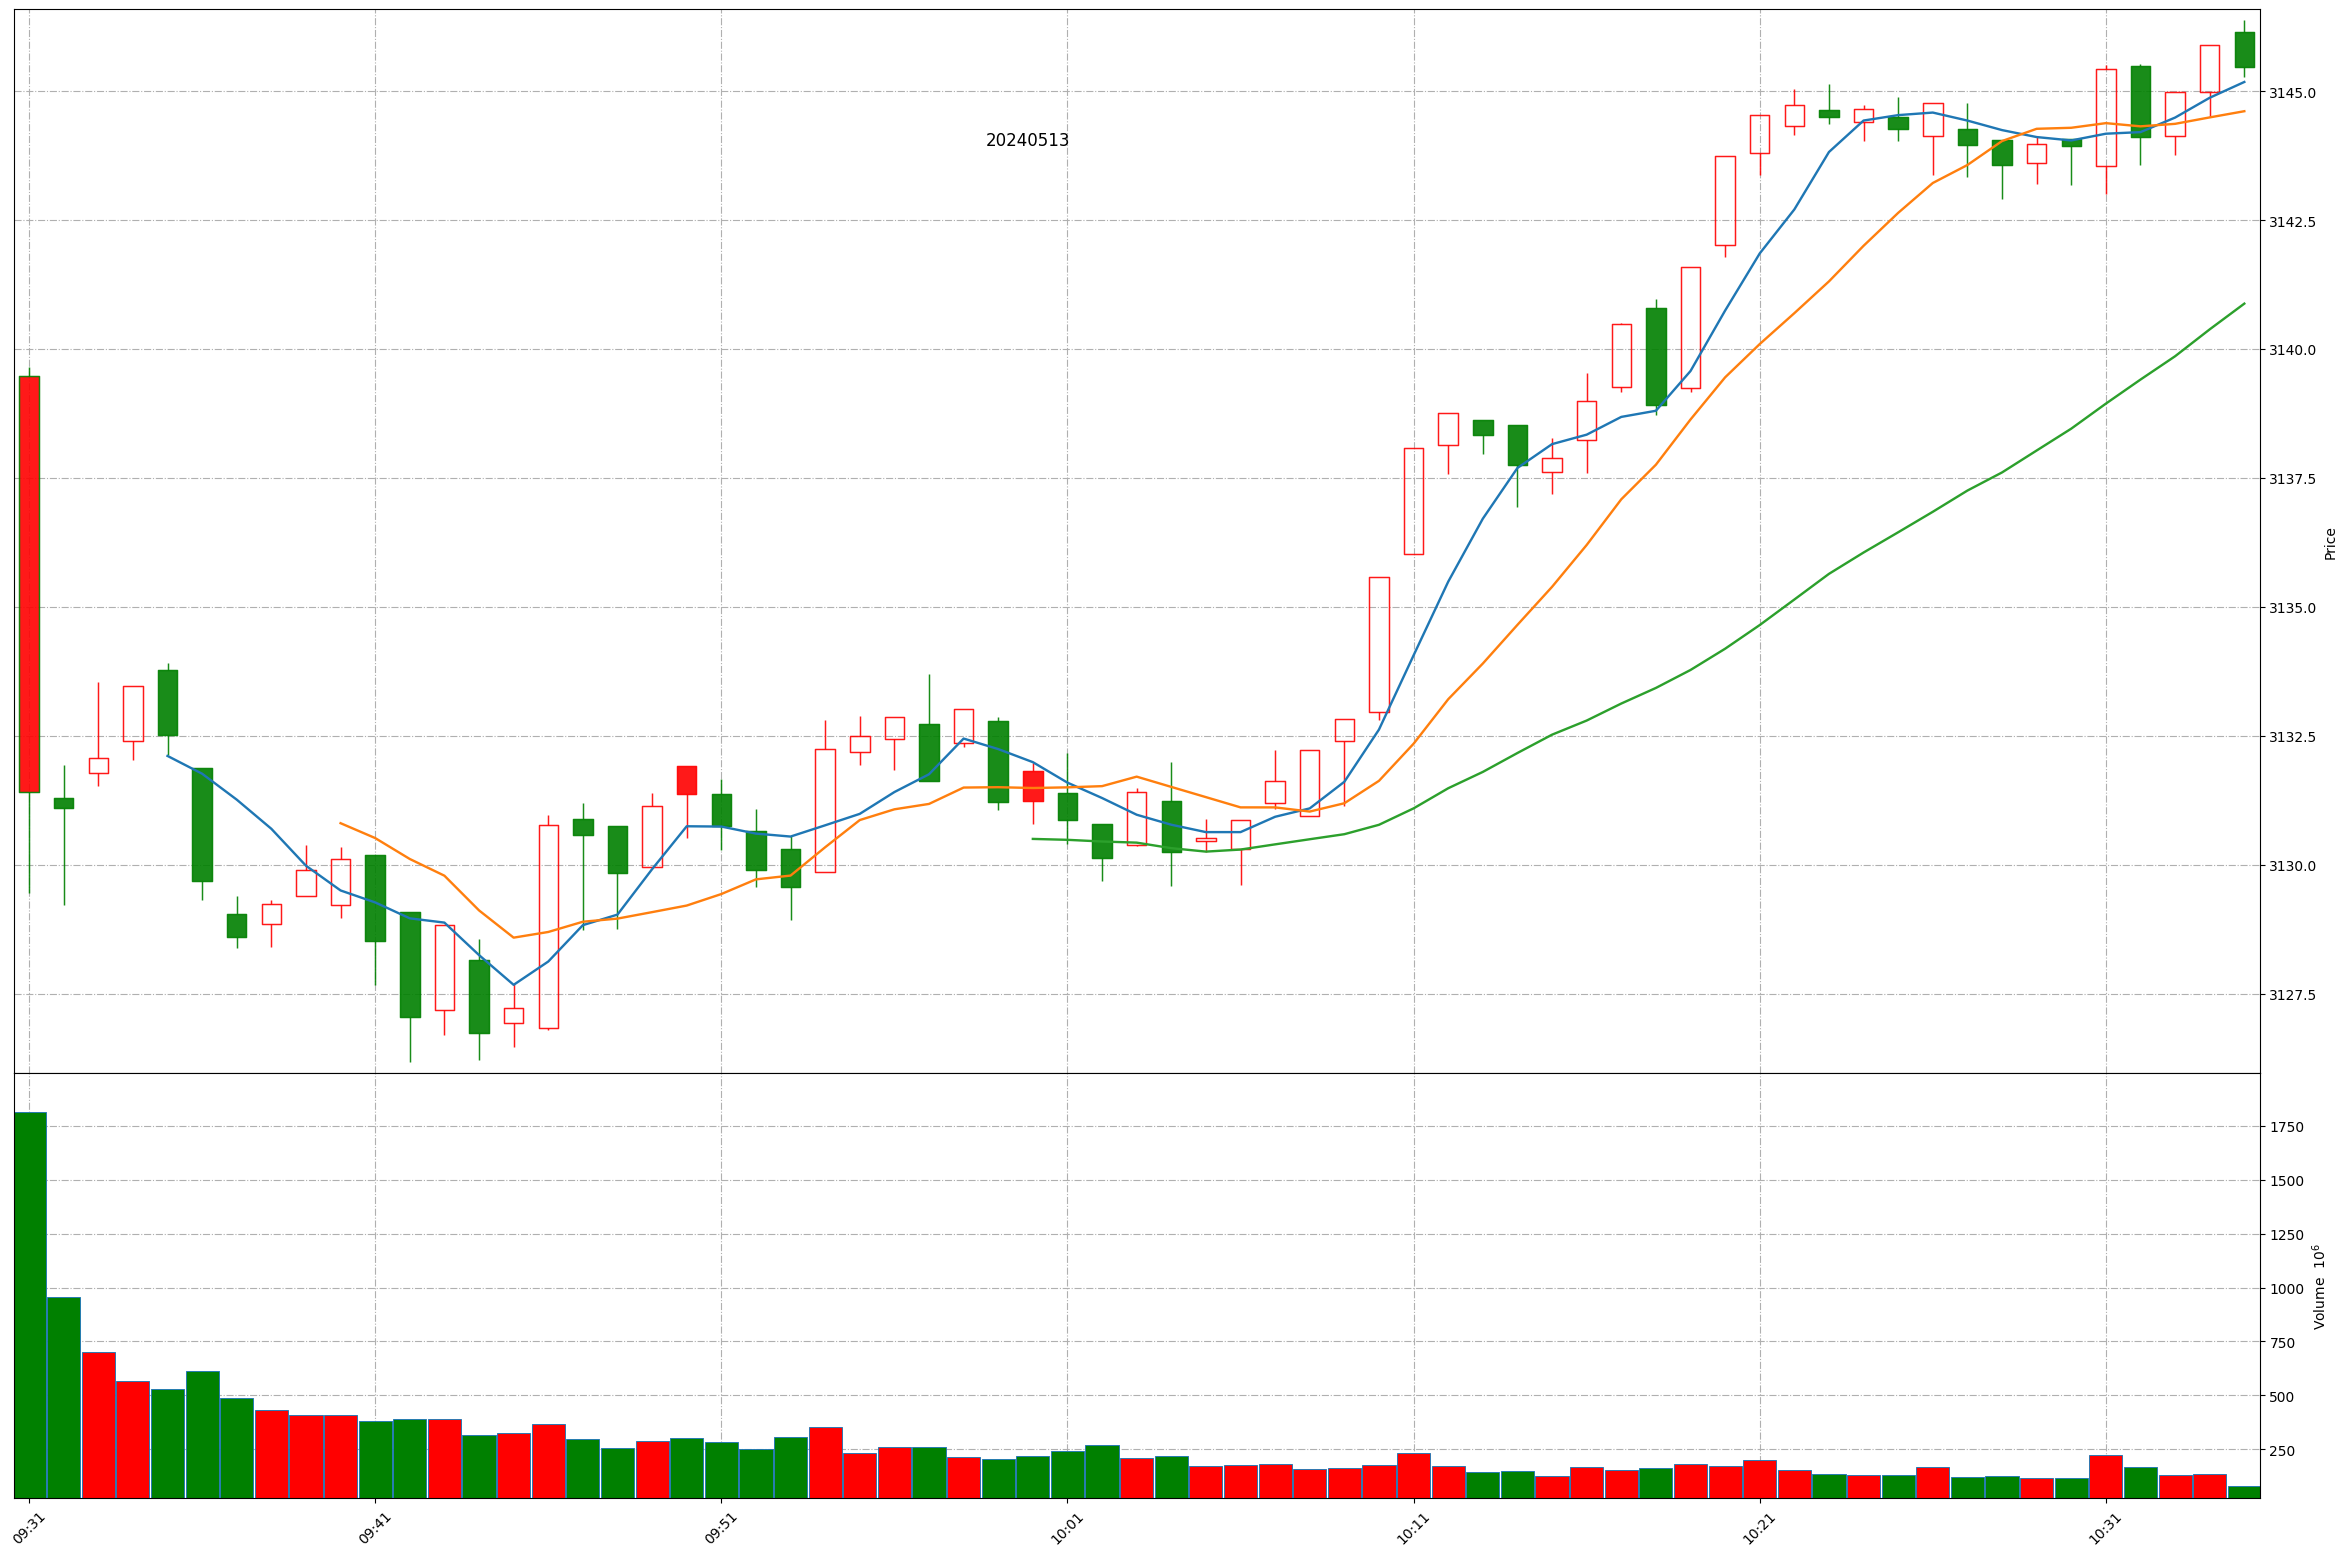
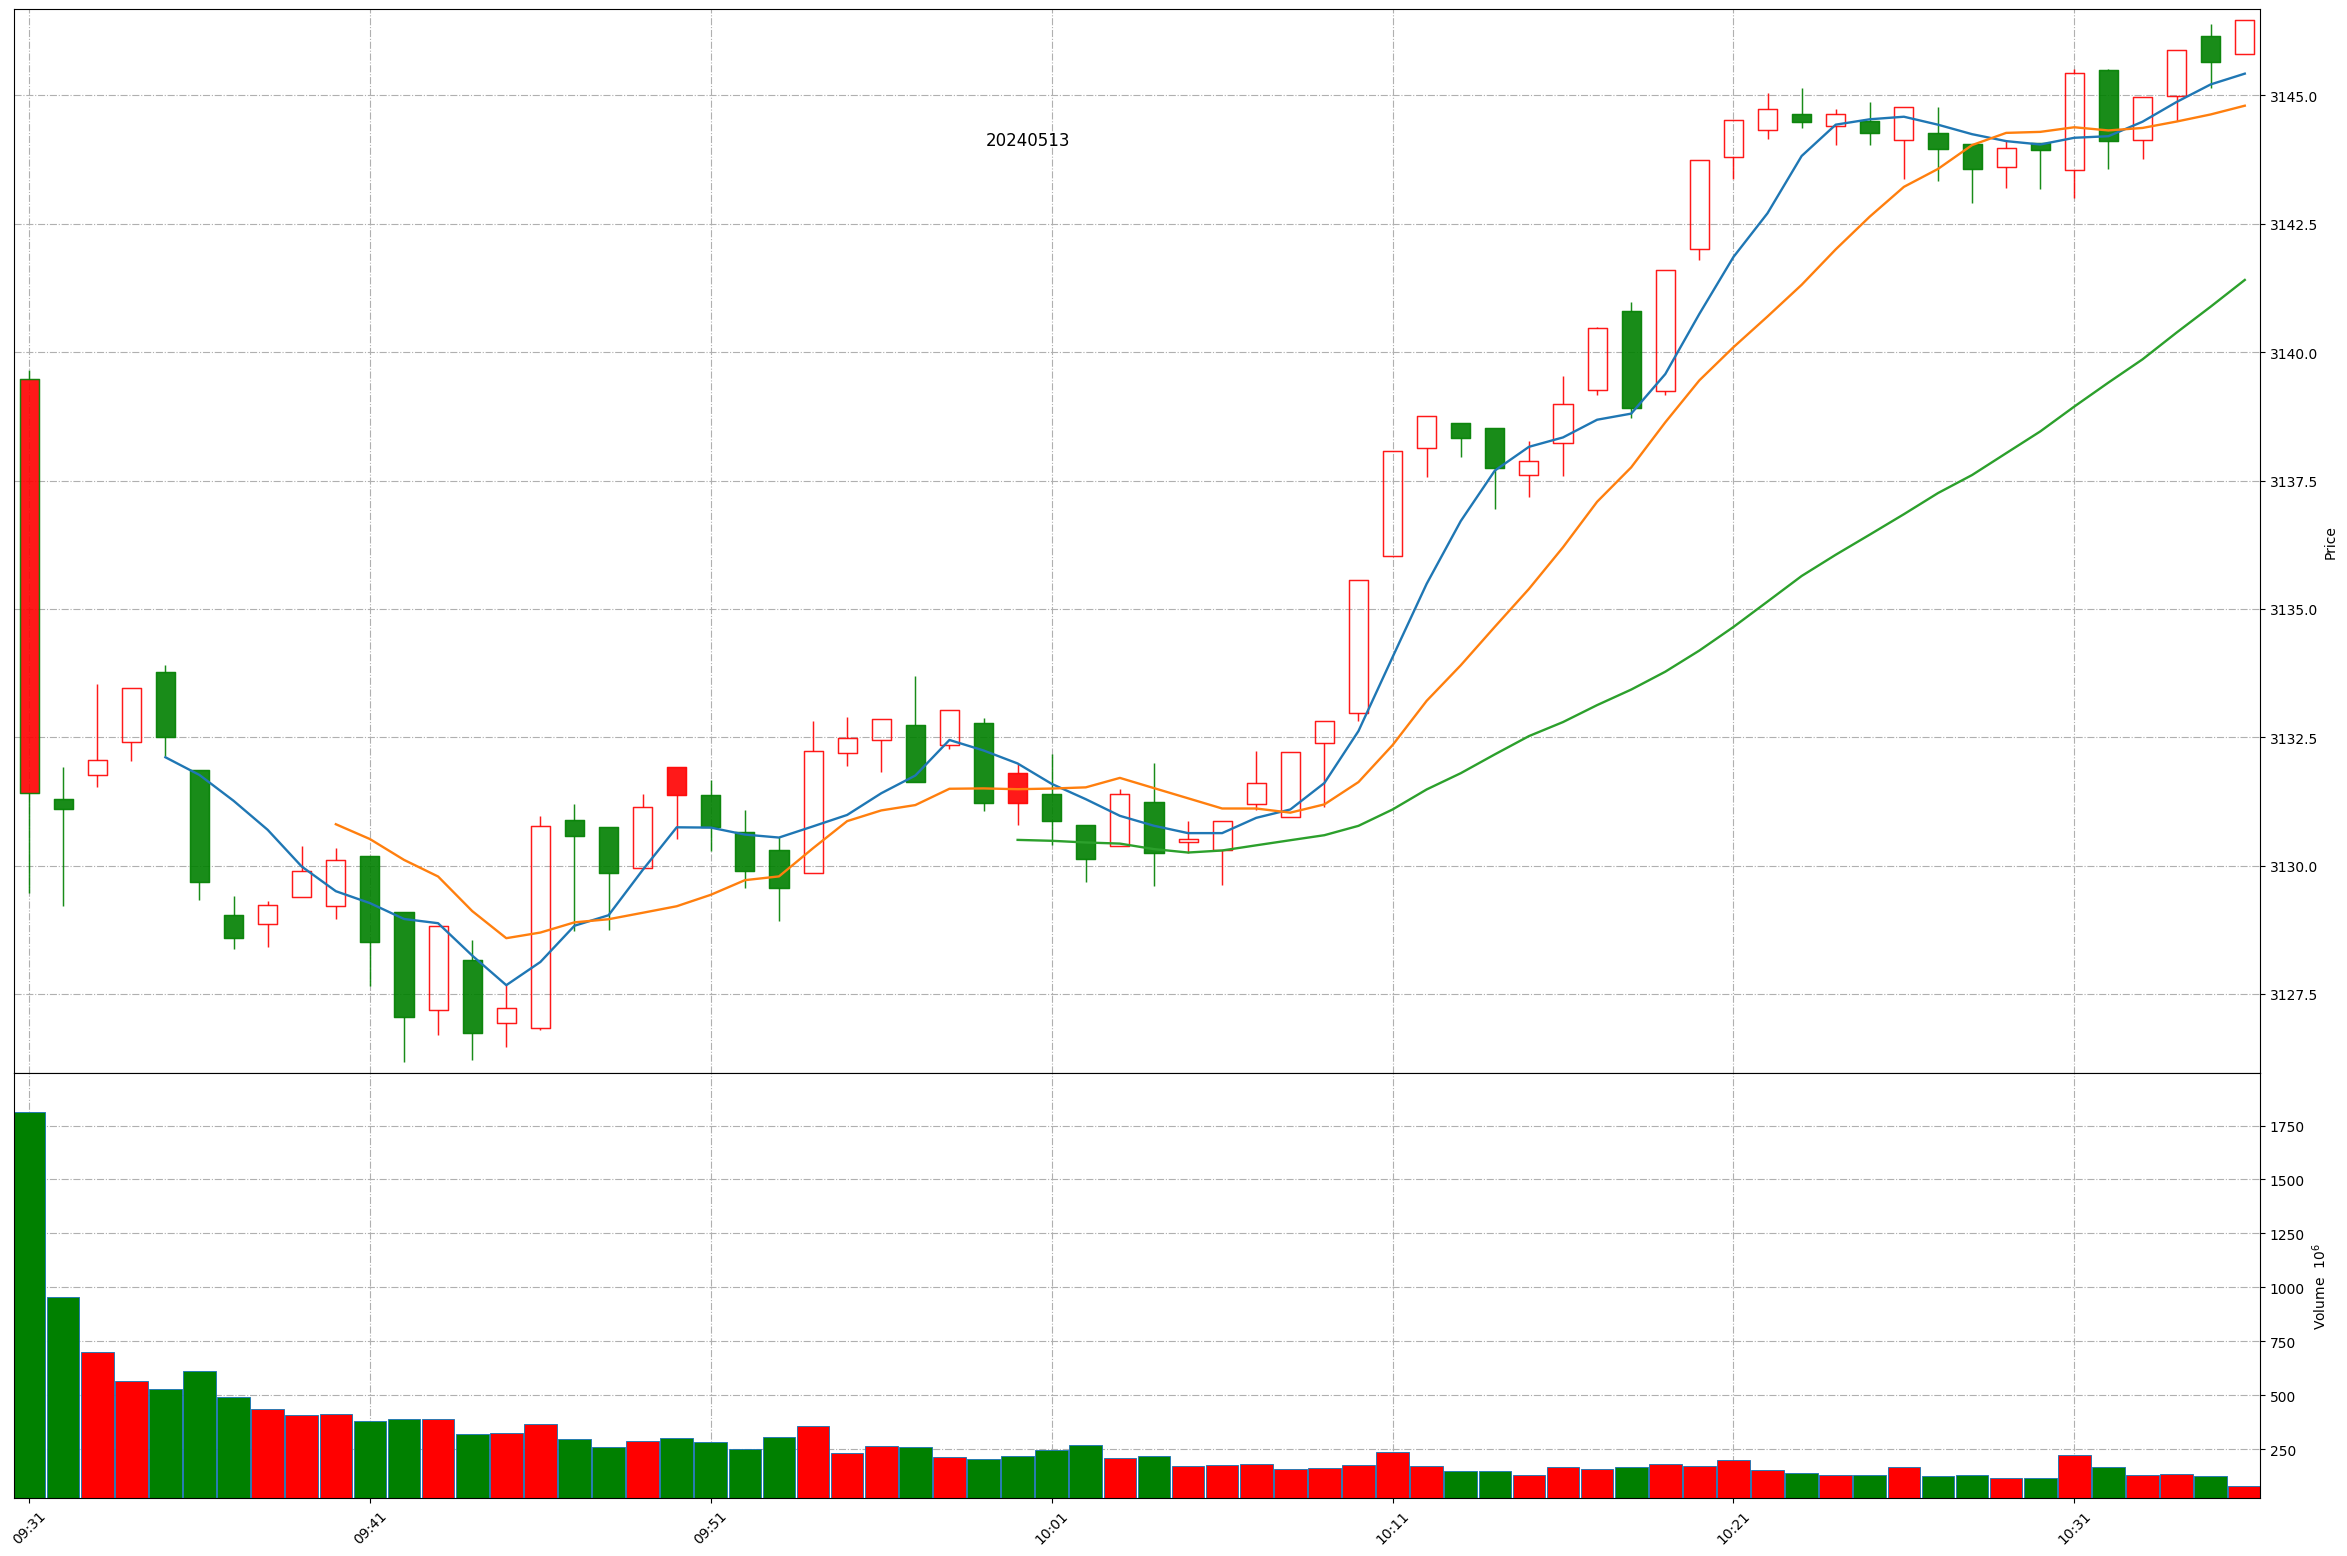
Github action update at 2024-05-13 10:36:01.

diff --git a/README.md b/README.md
@@ -1,11 +1,11 @@
 
 # Daily-A-share-market-quotes 每日 A 股指数（5min 更新）- 20240513
 
-### 上证指数 20240513 10:34
+### 上证指数 20240513 10:36
 ![](./fig/2024/5/20240513-sh000001.png)
 
-### 深证成指 20240513 10:34
+### 深证成指 20240513 10:36
 ![](./fig/2024/5/20240513-sz399001.png)
 
-### 北证50 20240513 10:34
+### 北证50 20240513 10:36
 ![](./fig/2024/5/20240513-bj899050.png)
